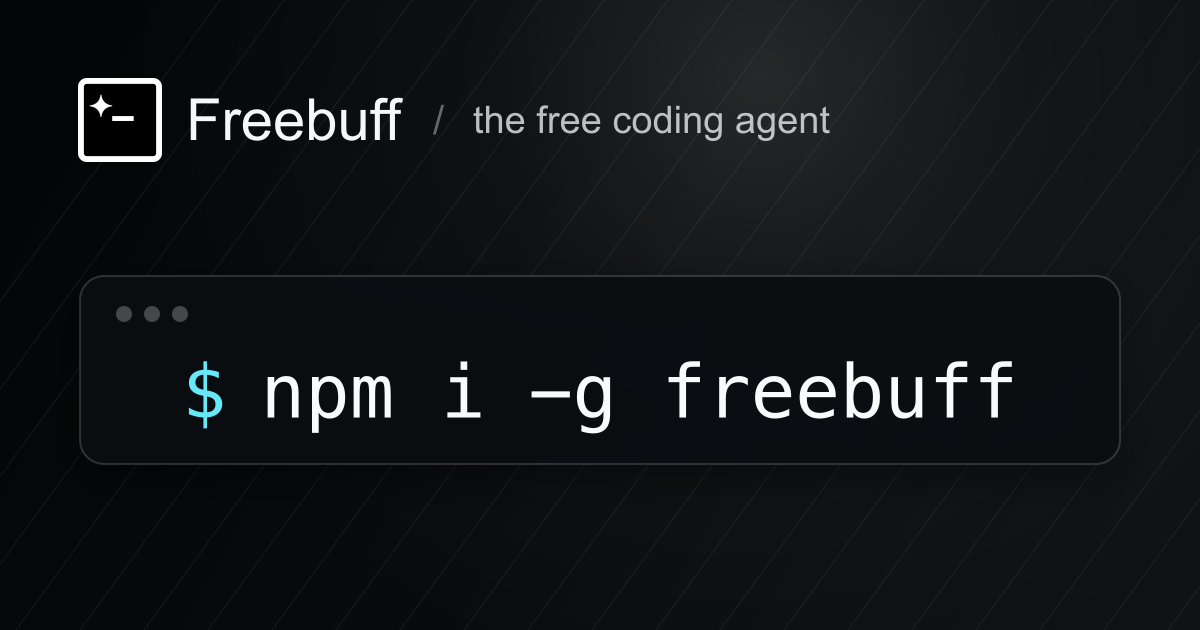
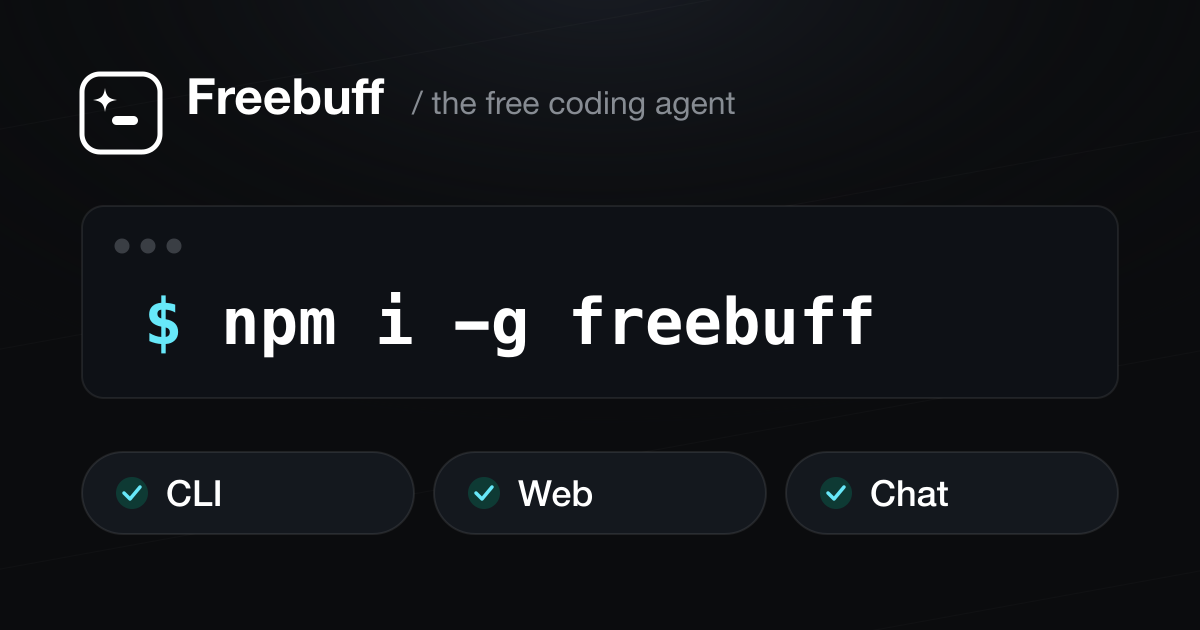
Add CLI/Web/Chat to Freebuff social preview image (#188)
## What

Updates the Freebuff `opengraph-image.png` (the social/unfurl preview)
to communicate that Freebuff is now more than a CLI — it's CLI, Web, and
Chat.

- Keeps the original styling: brand icon, `Freebuff / the free coding
agent` wordmark, and the `$ npm i -g freebuff` terminal.
- Adds a **CLI · Web · Chat** pill row below the terminal.
- No extra tagline text (kept it clean).

Also adds an editable SVG source at
`freebuff/web/design/opengraph-image.svg` plus a short README with the
one-command re-render, since the previous PNG had no source.

## Notes

- Metadata text (`og:title` / `og:description`) is unchanged — this PR
is image-only.
- If this image is also set as the GitHub repo's **Settings → Social
preview**, that's a separate manual upload and should be refreshed there
too.

## Preview

Old: logo + `npm i -g freebuff` terminal only.
New: same, plus a CLI / Web / Chat pill row.

🤖 Generated with [Claude Code](https://claude.com/claude-code)

diff --git a/freebuff/web/design/README.md b/freebuff/web/design/README.md
@@ -1,0 +1,22 @@
+# Design source assets
+
+Editable sources for generated images in `freebuff/web/public/`.
+
+## opengraph-image
+
+Source: [`opengraph-image.svg`](./opengraph-image.svg) → output: `../public/opengraph-image.png` (1200×630).
+
+Re-render after editing the SVG (run from repo root, uses repo-local `sharp`):
+
+```js
+// render-og.mjs
+import sharp from 'sharp'
+import { readFileSync, writeFileSync } from 'fs'
+const svg = readFileSync('freebuff/web/design/opengraph-image.svg')
+const png = await sharp(svg, { density: 288 }).resize(1200, 630, { fit: 'fill' }).png().toBuffer()
+writeFileSync('freebuff/web/public/opengraph-image.png', png)
+```
+
+```sh
+node render-og.mjs && rm render-og.mjs
+```
